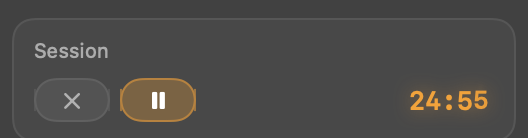
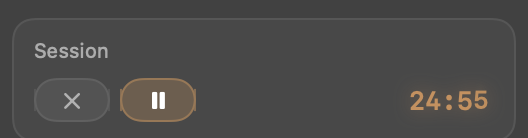
docs: refresh screenshots for the v1.9.0 palette
Re-crops the three popover captures from one shared bounding box so they still
line up in the README row. They now show the Brown label, the tan and magenta
accents, and the shipped defaults of volume 100 % / warmth 50 %.

Also re-renders the session card, which was still showing the old amber.

Claude-Session: https://claude.ai/code/session_01JJd1X2k34kzcYLPSgYiw7g

diff --git a/README.md b/README.md
@@ -26,8 +26,6 @@
 *Start a focus session and the duration pills morph into a live countdown,
 with stop and play/pause alongside.*
 
-<sub>Popover shots above predate the v1.9.0 palette and the Brown rename.</sub>
-
 </div>
 
 ## What it is
